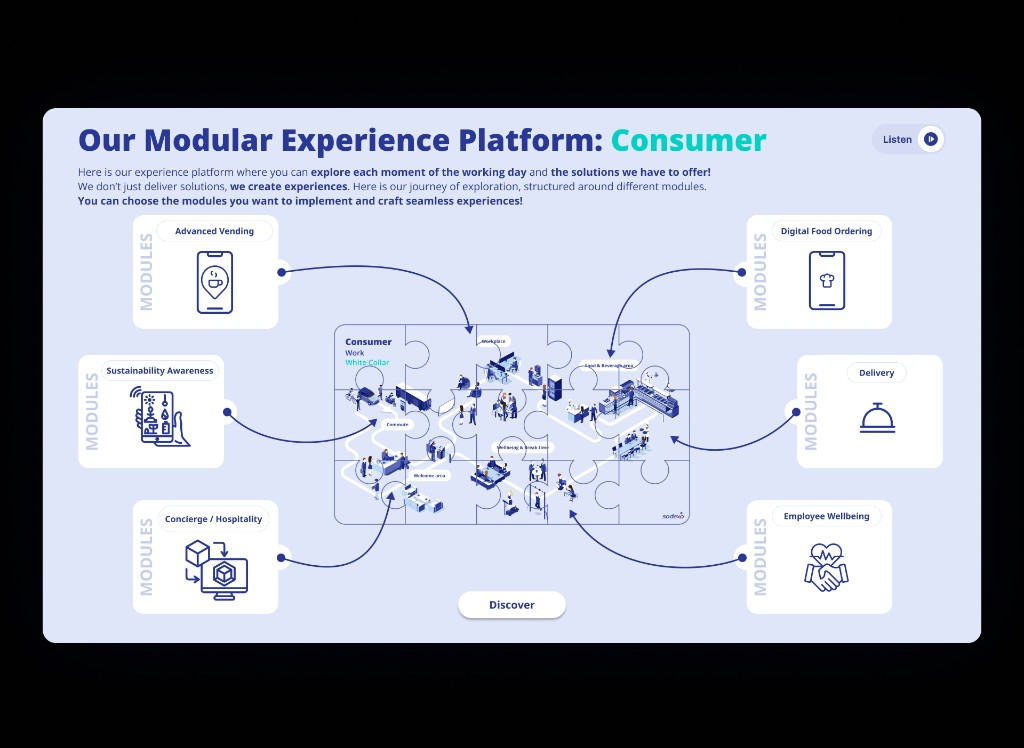
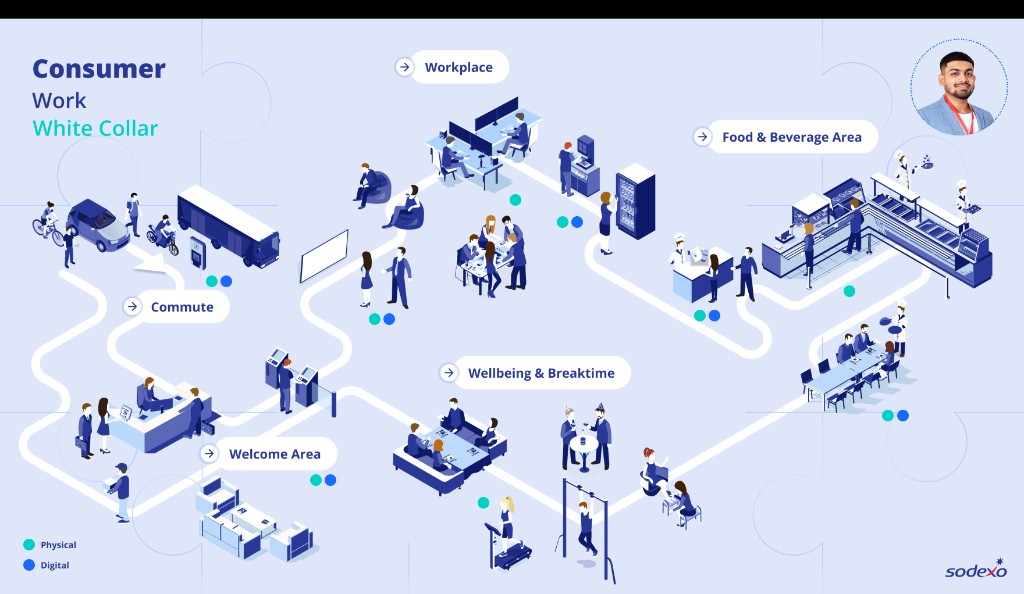
Update wireframe journey maps with official Consumer and Operator artwork.
Replace placeholder puzzle graphics with isometric journey images and align moment labels and layout to match each persona map.

diff --git a/src/components/demos/sharepoint-os-wireframe.tsx b/src/components/demos/sharepoint-os-wireframe.tsx
@@ -33,11 +33,11 @@ const EXPERIENCE_KEYWORDS = [
 
 const JOURNEY_MOMENTS = [
   "Commute",
-  "Kick-off & daily check",
-  "Kitchen / FM round",
+  "Kick-off & early check",
+  "Order, planning & maintenance",
+  "Kitchen / back kitchen FM round",
   "Office time",
-  "Order & planning",
-  "F&B area",
+  "Food & Beverage area",
 ];
 
 export function SharePointOsWireframe() {
@@ -272,13 +272,14 @@ export function SharePointOsWireframe() {
                   {t("zones.journey.body")}
                 </p>
               </div>
-              <div className="relative aspect-[16/9] w-full bg-[color:color-mix(in_oklab,var(--spark-iq),transparent_94%)]">
+              <div className="relative aspect-[21/10] w-full bg-[#e8f4f8]">
                 <Image
-                  src="/demos/journey-platform.png"
+                  src="/demos/journey-operator.png"
                   alt=""
                   fill
-                  className="object-contain p-4"
+                  className="object-contain object-center p-2 md:p-3"
                   sizes="(max-width: 768px) 100vw, 1152px"
+                  priority
                 />
               </div>
               <div className="flex flex-wrap justify-center gap-2 border-t border-[var(--spark-line)] px-4 py-4">

diff --git a/src/components/demos/sharepoint-wrx-wireframe.tsx b/src/components/demos/sharepoint-wrx-wireframe.tsx
@@ -56,8 +56,8 @@ const JOURNEY_MOMENTS = [
   "Commute",
   "Welcome area",
   "Workplace",
-  "Food & Beverage",
-  "Well-being & break",
+  "Well-being & break time",
+  "Food & Beverage area",
 ];
 
 export function SharePointWrxWireframe() {
@@ -309,13 +309,14 @@ export function SharePointWrxWireframe() {
                   {t("zones.journey.body")}
                 </p>
               </div>
-              <div className="relative aspect-[16/9] w-full bg-[color:color-mix(in_oklab,var(--spark-xp),transparent_94%)]">
+              <div className="relative aspect-[21/10] w-full bg-[#e8f4f8]">
                 <Image
                   src="/demos/journey-consumer.png"
                   alt=""
                   fill
-                  className="object-contain p-4"
+                  className="object-contain object-center p-2 md:p-3"
                   sizes="(max-width: 768px) 100vw, 1152px"
+                  priority
                 />
               </div>
               <div className="flex flex-wrap justify-center gap-2 border-t border-[var(--spark-line)] px-4 py-4">